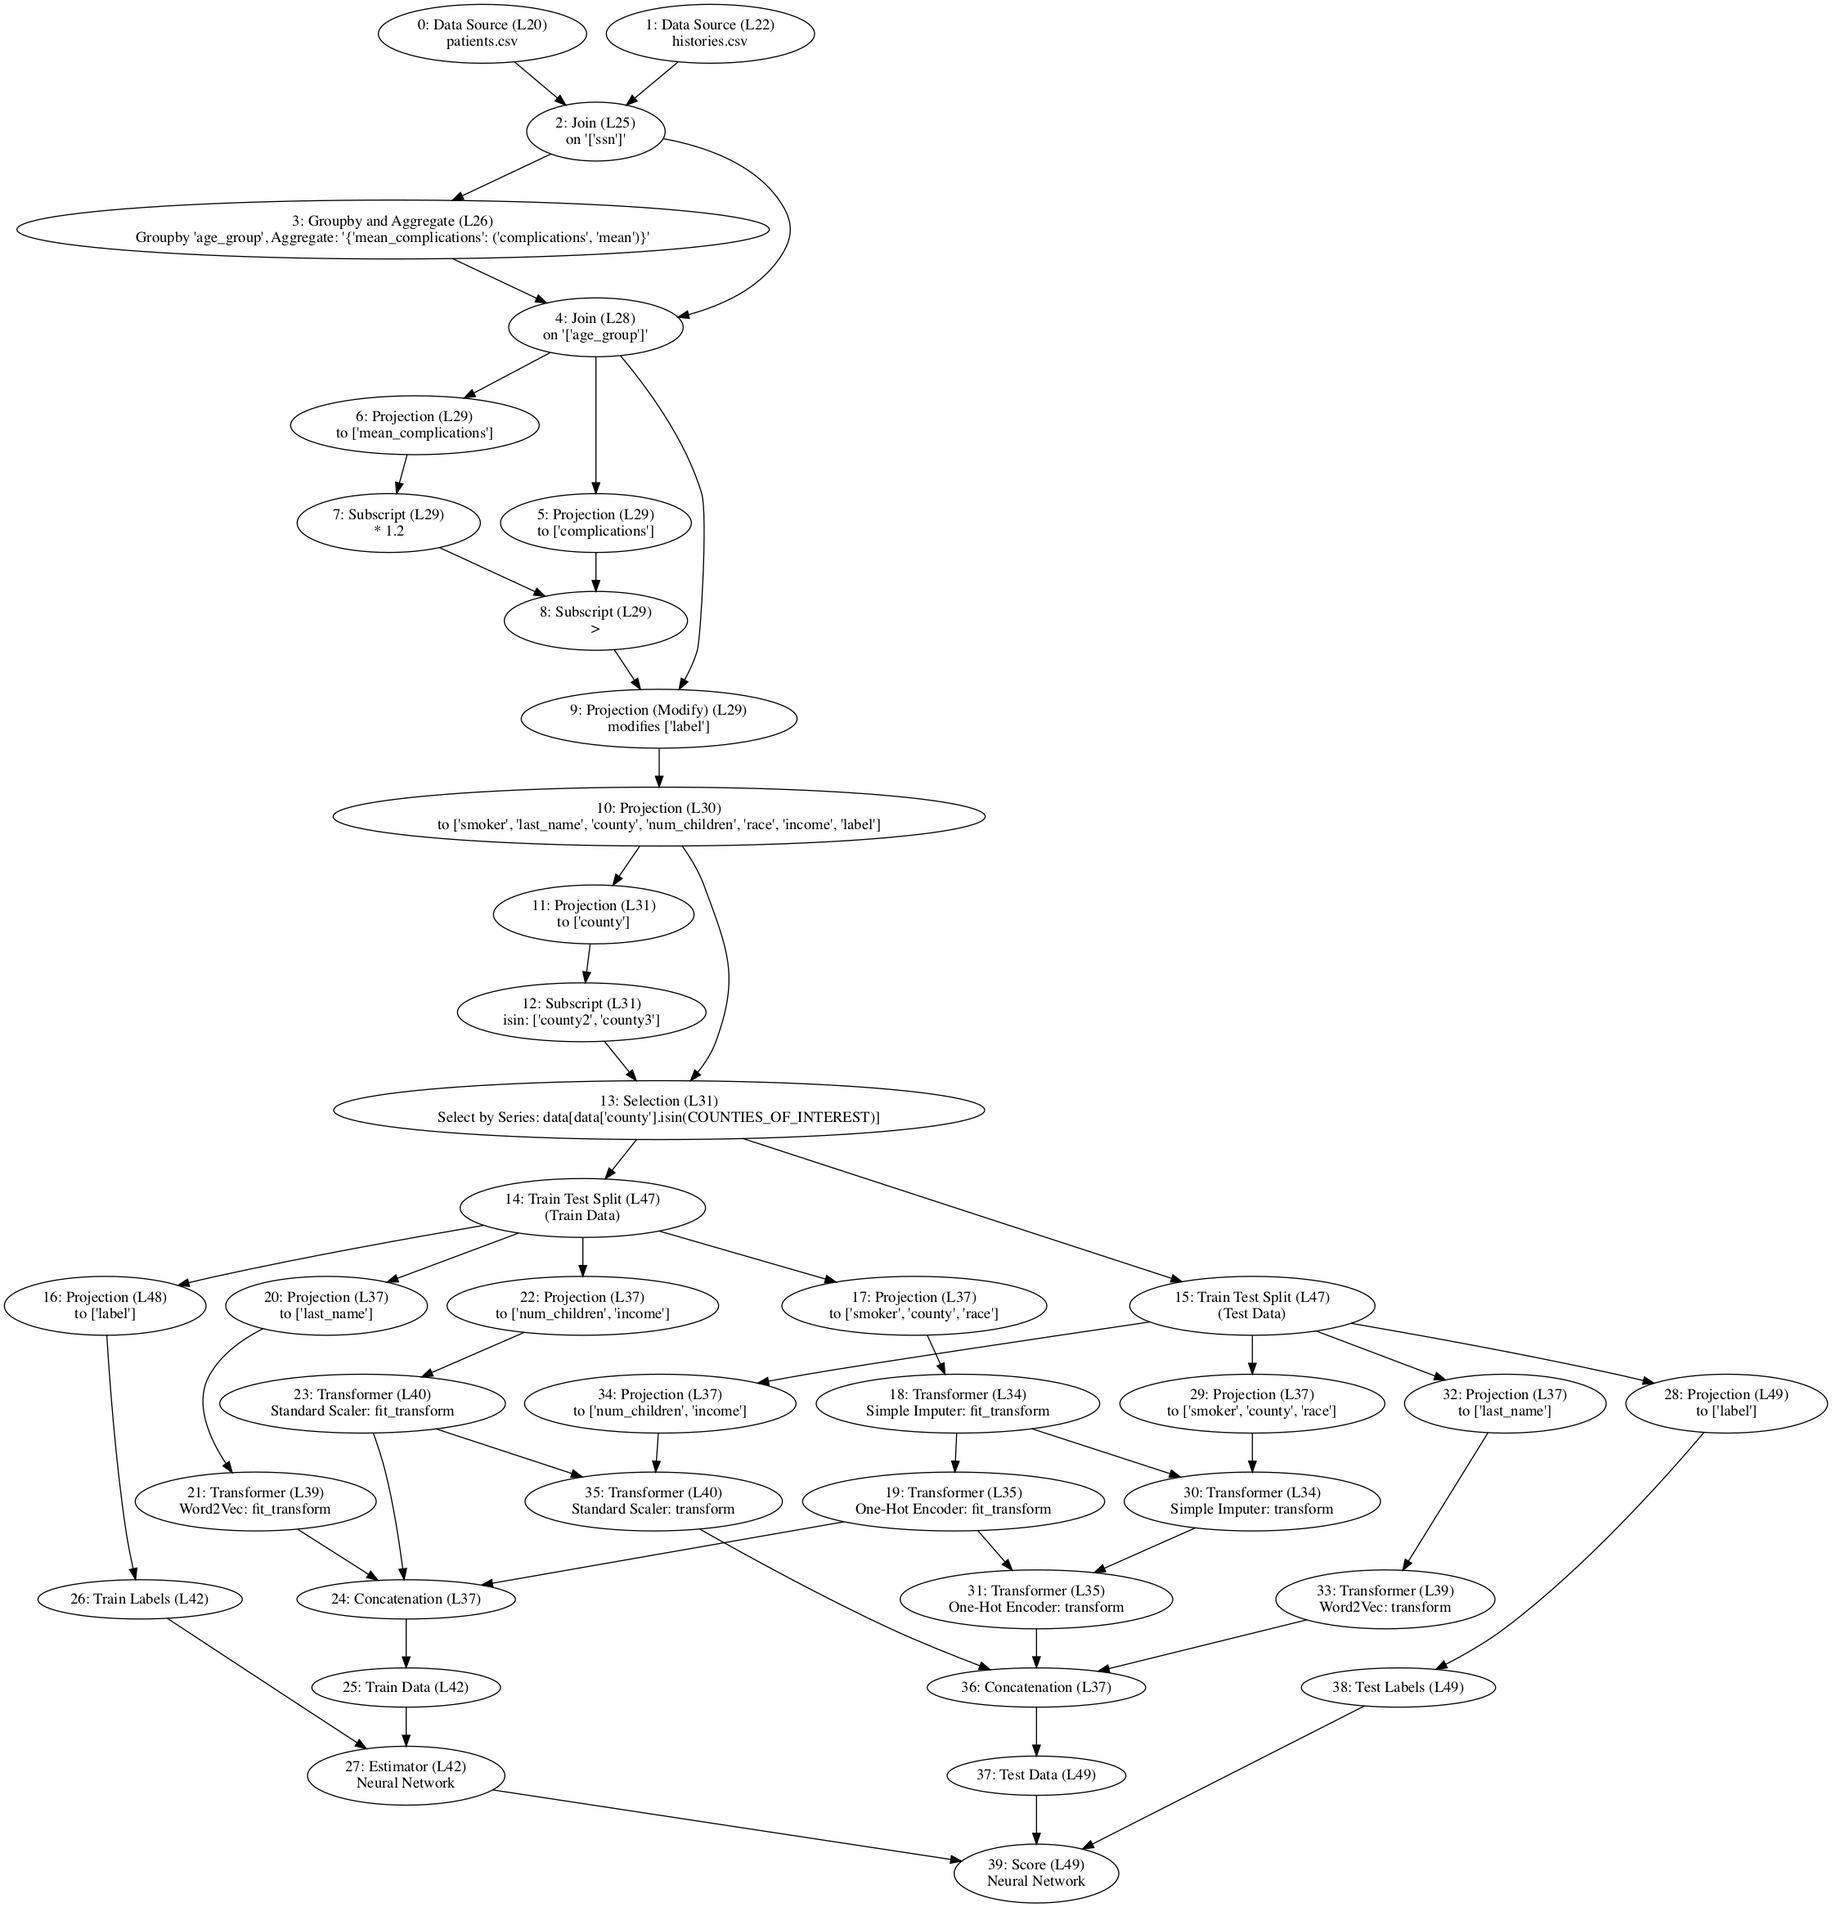
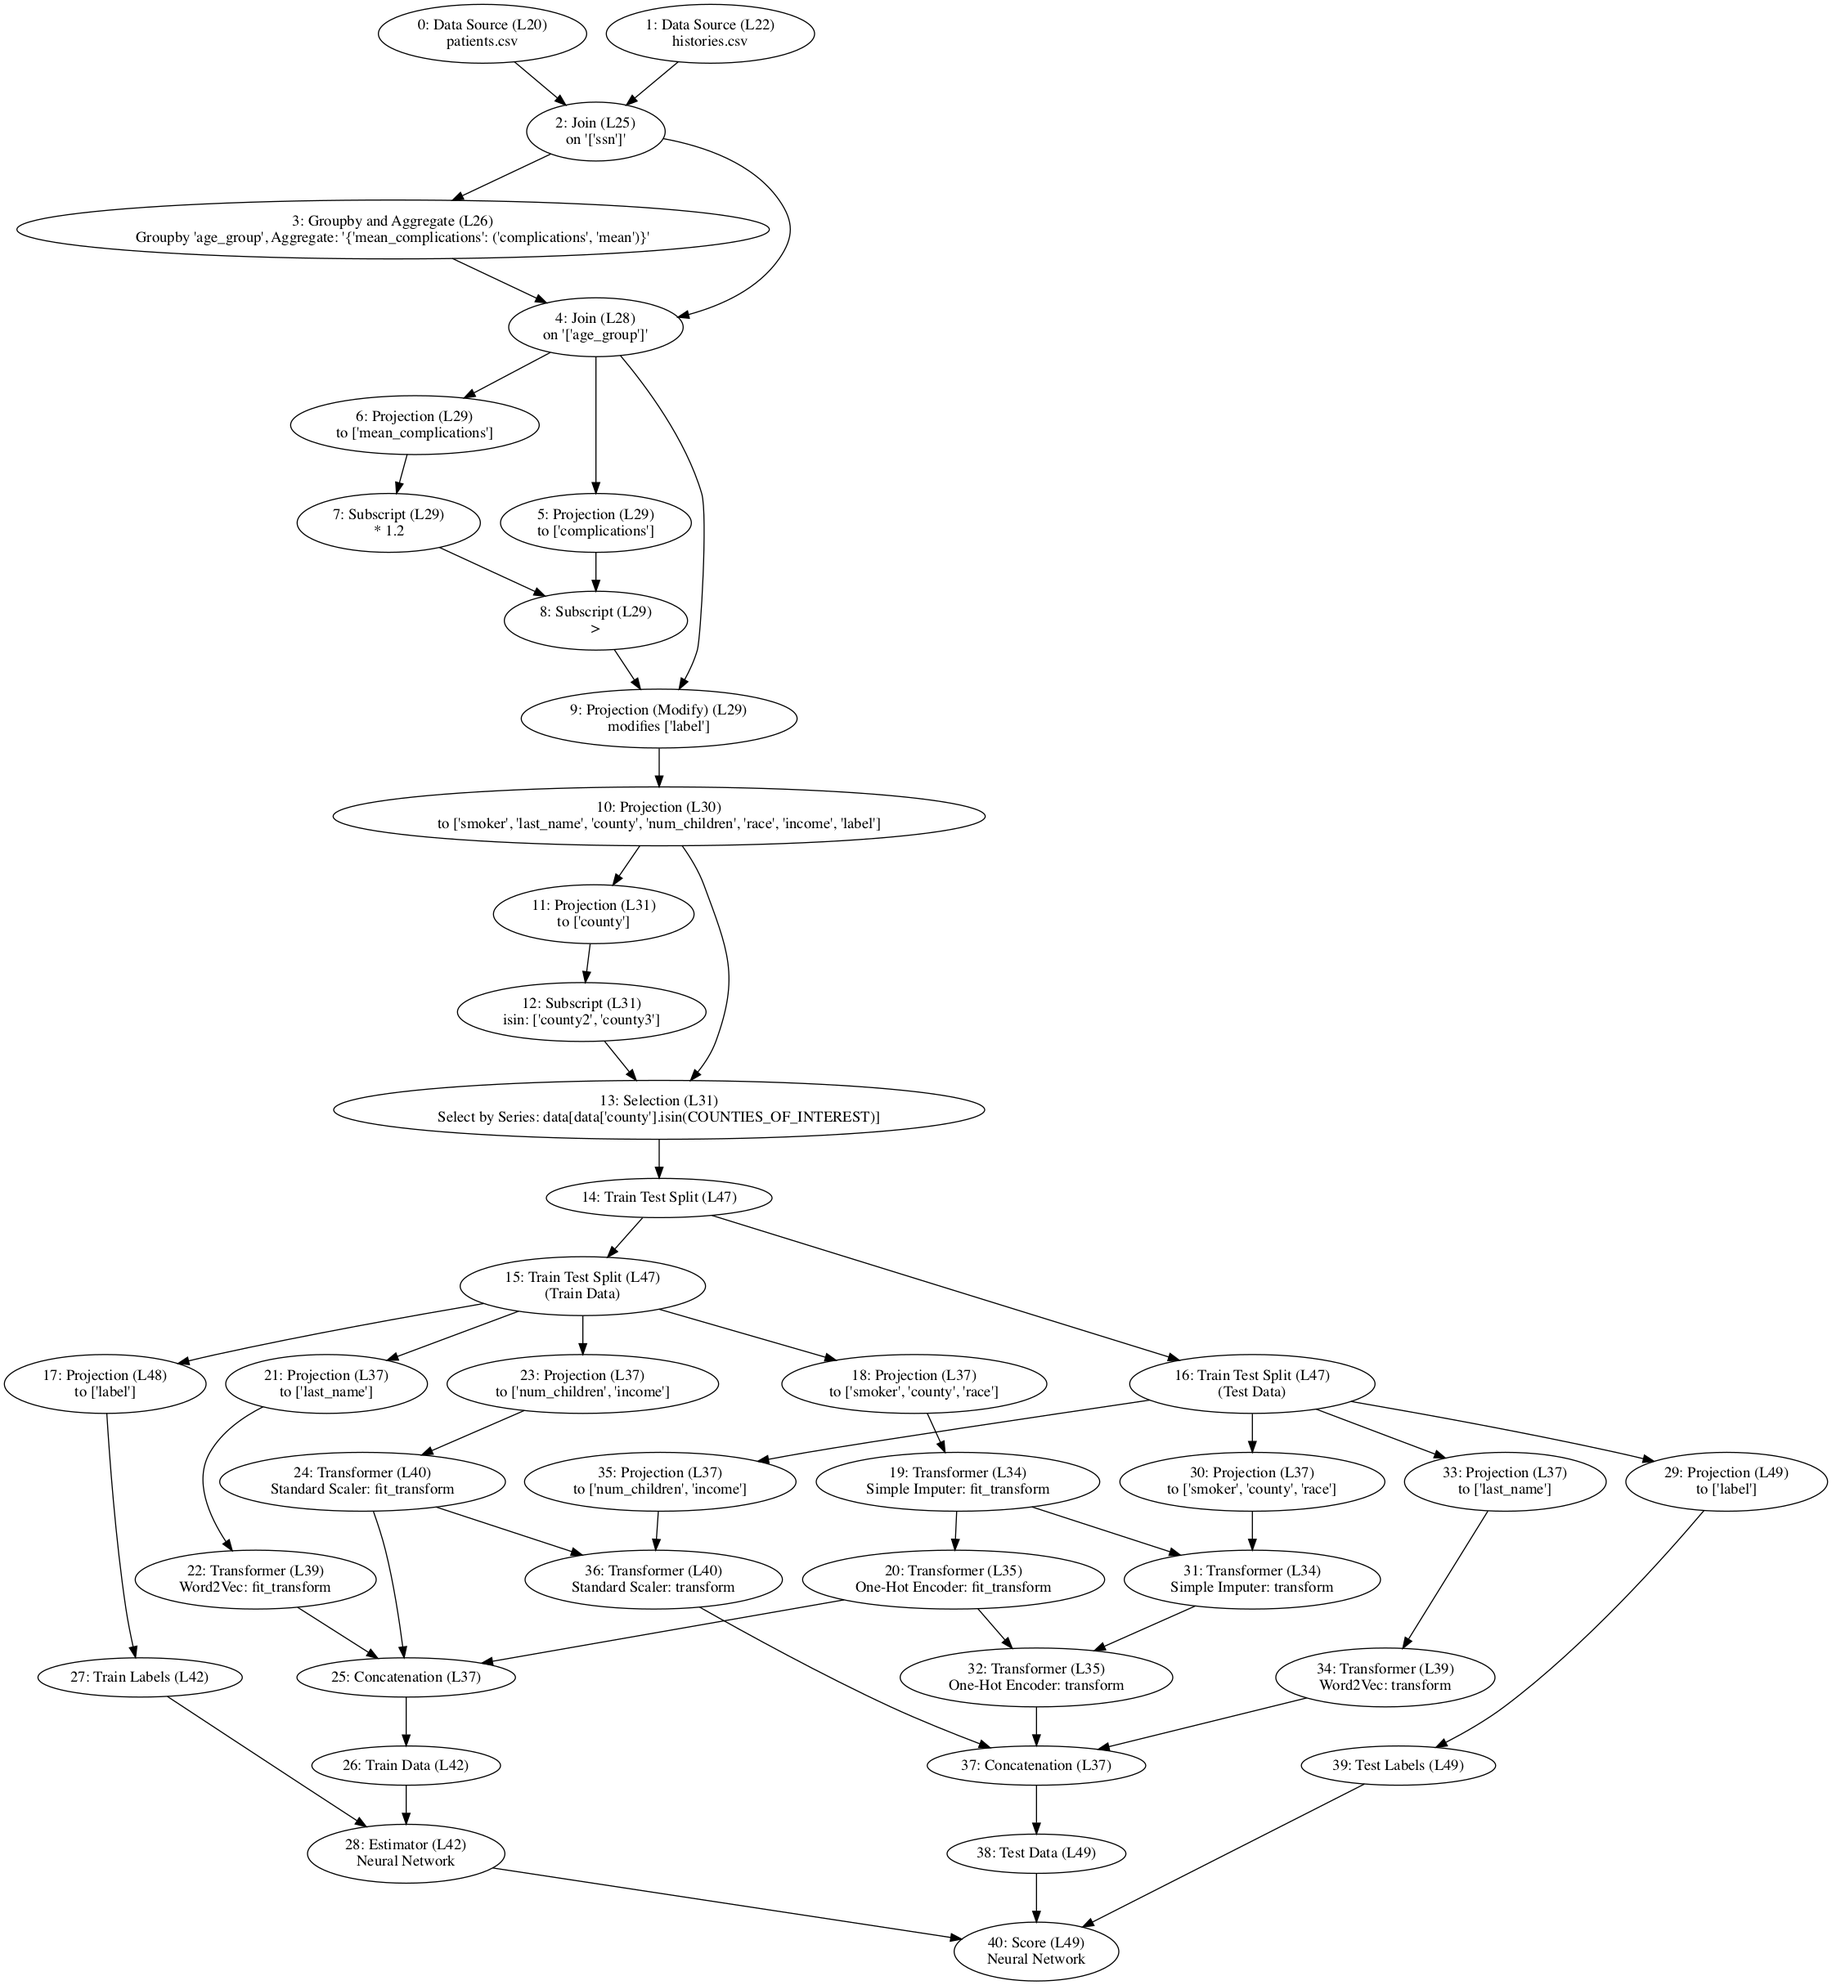
Support for train test split, had to change the DAG for it

diff --git a/test/monkeypatching/test_patch_sklearn.py b/test/monkeypatching/test_patch_sklearn.py
@@ -7,12 +7,14 @@ from inspect import cleandoc
 from types import FunctionType
 
 import networkx
+import pandas
 from testfixtures import compare, Comparison
 
 from mlwhatif import OperatorType, OperatorContext, FunctionInfo
 from mlwhatif.instrumentation import _pipeline_executor
 from mlwhatif.instrumentation._dag_node import DagNode, CodeReference, BasicCodeLocation, DagNodeDetails, \
     OptionalCodeInfo
+from mlwhatif.monkeypatching._patch_sklearn import TrainTestSplitResult
 
 
 def test_label_binarize():
@@ -70,8 +72,8 @@ def test_train_test_split():
                 """)
 
     inspector_result = _pipeline_executor.singleton.run(python_code=test_code, track_code_references=True)
+    inspector_result.dag.remove_node(list(inspector_result.dag.nodes)[5])
     inspector_result.dag.remove_node(list(inspector_result.dag.nodes)[4])
-    inspector_result.dag.remove_node(list(inspector_result.dag.nodes)[3])
 
     expected_dag = networkx.DiGraph()
     expected_source = DagNode(0,
@@ -80,24 +82,50 @@ def test_train_test_split():
                               DagNodeDetails(None, ['A']),
                               OptionalCodeInfo(CodeReference(4, 12, 4, 46), "pd.DataFrame({'A': [1, 2, 10, 5]})"),
                               Comparison(partial))
-    expected_train = DagNode(1,
+    expected_split = DagNode(1,
+                             BasicCodeLocation("<string-source>", 5),
+                             OperatorContext(OperatorType.TRAIN_TEST_SPLIT,
+                                             FunctionInfo('sklearn.model_selection._split', 'train_test_split')),
+                             DagNodeDetails(None, ['A']),
+                             OptionalCodeInfo(CodeReference(5, 24, 5, 67),
+                                              'train_test_split(pandas_df, random_state=0)'),
+                             Comparison(FunctionType))
+    expected_dag.add_edge(expected_source, expected_split, arg_index=0)
+    expected_train = DagNode(2,
                              BasicCodeLocation("<string-source>", 5),
                              OperatorContext(OperatorType.TRAIN_TEST_SPLIT,
                                              FunctionInfo('sklearn.model_selection._split', 'train_test_split')),
                              DagNodeDetails('(Train Data)', ['A']),
                              OptionalCodeInfo(CodeReference(5, 24, 5, 67),
-                                              'train_test_split(pandas_df, random_state=0)'))
-    expected_dag.add_edge(expected_source, expected_train, arg_index=0)
-    expected_test = DagNode(2,
+                                              'train_test_split(pandas_df, random_state=0)'),
+                             Comparison(FunctionType))
+    expected_dag.add_edge(expected_split, expected_train, arg_index=0)
+    expected_test = DagNode(3,
                             BasicCodeLocation("<string-source>", 5),
                             OperatorContext(OperatorType.TRAIN_TEST_SPLIT,
                                             FunctionInfo('sklearn.model_selection._split', 'train_test_split')),
                             DagNodeDetails('(Test Data)', ['A']),
                             OptionalCodeInfo(CodeReference(5, 24, 5, 67),
-                                             'train_test_split(pandas_df, random_state=0)'))
-    expected_dag.add_edge(expected_source, expected_test, arg_index=0)
+                                             'train_test_split(pandas_df, random_state=0)'),
+                            Comparison(FunctionType))
+    expected_dag.add_edge(expected_split, expected_test, arg_index=0)
 
     compare(networkx.to_dict_of_dicts(inspector_result.dag), networkx.to_dict_of_dicts(expected_dag))
+
+    split_node = list(inspector_result.dag.nodes)[1]
+    train_node = list(inspector_result.dag.nodes)[2]
+    test_node = list(inspector_result.dag.nodes)[3]
+    pandas_df = pandas.DataFrame({'A': ['a', 'c', 'e', 'f']})
+    split_result = split_node.processing_func(pandas_df)
+    assert isinstance(split_result, TrainTestSplitResult)
+    train_data = train_node.processing_func(split_result)
+    test_data = test_node.processing_func(split_result)
+
+    expected_train = pandas.DataFrame({'A': ['f', 'c', 'a']})
+    expected_test = pandas.DataFrame({'A': ['e']})
+
+    pandas.testing.assert_frame_equal(train_data.reset_index(drop=True), expected_train.reset_index(drop=True))
+    pandas.testing.assert_frame_equal(test_data.reset_index(drop=True), expected_test.reset_index(drop=True))
 
 
 def test_standard_scaler():

diff --git a/mlwhatif/monkeypatching/_patch_sklearn.py b/mlwhatif/monkeypatching/_patch_sklearn.py
@@ -2,6 +2,7 @@
 Monkey patching for sklearn
 """
 # pylint: disable=too-many-lines
+import dataclasses
 
 import gorilla
 import numpy
@@ -62,6 +63,15 @@ class SklearnPreprocessingPatching:
         return execute_patched_func(original, execute_inspections, *args, **kwargs)
 
 
+@dataclasses.dataclass
+class TrainTestSplitResult:
+    """
+    Additional info about the DAG node
+    """
+    train: any or None = None
+    test: any or None = None
+
+
 @gorilla.patches(model_selection)
 class SklearnModelSelectionPatching:
     """ Patches for sklearn """
@@ -85,28 +95,47 @@ class SklearnModelSelectionPatching:
             operator_context = OperatorContext(OperatorType.TRAIN_TEST_SPLIT, function_info)
             result = original(input_info.annotated_dfobject.result_data, *args[1:], **kwargs)
 
-            description = "(Train Data)"
+            def train_test_split_and_wrapping(df_object):
+                split_result = original(df_object, *args[1:], **kwargs)
+                return TrainTestSplitResult(*split_result)
+
+            def train_test_split_train(split_result):
+                return split_result.train
+
+            def train_test_split_test(split_result):
+                return split_result.test
+
             columns = list(result[0].columns)
-            dag_node = DagNode(op_id,
-                               BasicCodeLocation(caller_filename, lineno),
-                               operator_context,
-                               DagNodeDetails(description, columns),
-                               get_optional_code_info_or_none(optional_code_reference, optional_source_code))
+            main_dag_node = DagNode(op_id,
+                                    BasicCodeLocation(caller_filename, lineno),
+                                    operator_context,
+                                    DagNodeDetails(None, columns),
+                                    get_optional_code_info_or_none(optional_code_reference, optional_source_code),
+                                    train_test_split_and_wrapping)
+            add_dag_node(main_dag_node, [input_info.dag_node], FunctionCallResult(None))
 
-            train_function_call_result = FunctionCallResult(result[0])
-            add_dag_node(dag_node, [input_info.dag_node], train_function_call_result)
-            new_train_result = train_function_call_result.function_result
-
-            description = "(Test Data)"
-            columns = list(result[1].columns)
+            description = "(Train Data)"
             dag_node = DagNode(singleton.get_next_op_id(),
                                BasicCodeLocation(caller_filename, lineno),
                                operator_context,
                                DagNodeDetails(description, columns),
-                               get_optional_code_info_or_none(optional_code_reference, optional_source_code))
+                               get_optional_code_info_or_none(optional_code_reference, optional_source_code),
+                               train_test_split_train)
+
+            train_function_call_result = FunctionCallResult(result[0])
+            add_dag_node(dag_node, [main_dag_node], train_function_call_result)
+            new_train_result = train_function_call_result.function_result
+
+            description = "(Test Data)"
+            dag_node = DagNode(singleton.get_next_op_id(),
+                               BasicCodeLocation(caller_filename, lineno),
+                               operator_context,
+                               DagNodeDetails(description, columns),
+                               get_optional_code_info_or_none(optional_code_reference, optional_source_code),
+                               train_test_split_test)
 
             test_function_call_result = FunctionCallResult(result[1])
-            add_dag_node(dag_node, [input_info.dag_node], test_function_call_result)
+            add_dag_node(dag_node, [main_dag_node], test_function_call_result)
             new_test_result = test_function_call_result.function_result
 
             new_result = (new_train_result, new_test_result)

diff --git a/test/test_pipeline_inspector.py b/test/test_pipeline_inspector.py
@@ -90,4 +90,4 @@ def assert_healthcare_pipeline_output_complete(inspector_result):
     """ Assert that the healthcare DAG was extracted completely """
     for dag_node, _ in inspector_result.dag_node_to_inspection_results.items():
         assert dag_node.operator_info.operator != OperatorType.MISSING_OP
-    assert len(inspector_result.dag) == 40
+    assert len(inspector_result.dag) == 41

diff --git a/test/example_pipelines/test_healthcare.py b/test/example_pipelines/test_healthcare.py
@@ -53,4 +53,4 @@ def test_instrumented_py_pipeline_runs():
     """
     dag = run_and_assert_all_op_outputs_inspected(HEALTHCARE_PY, ["age_group", "race"], HEALTHCARE_PNG,
                                                   [custom_monkeypatching])
-    assert len(dag) == 40
+    assert len(dag) == 41
